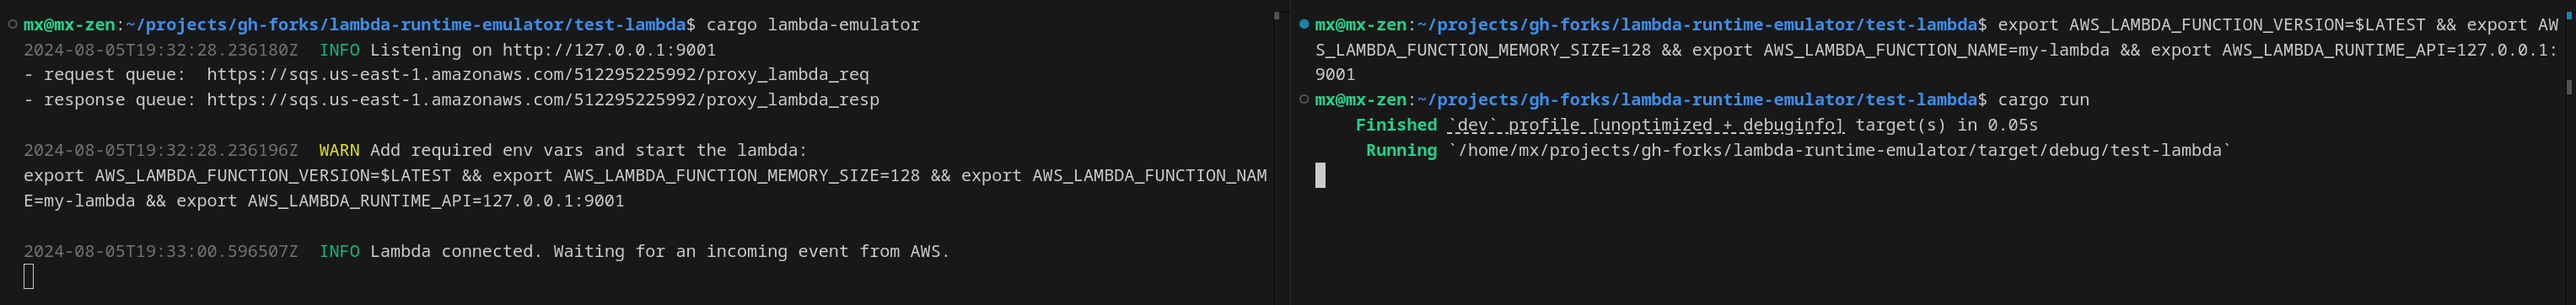
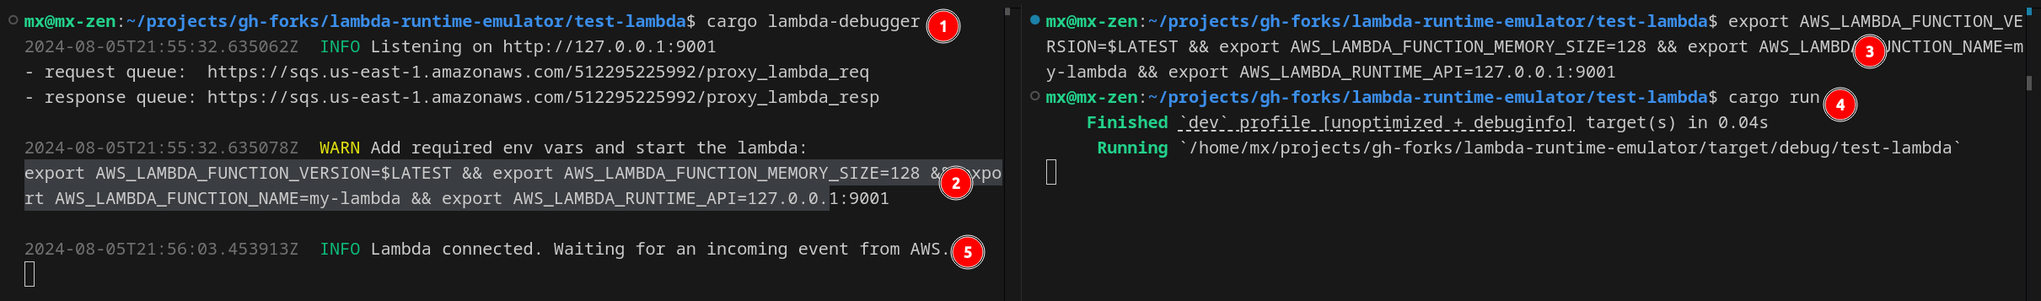
Renamed emulator into debugger

diff --git a/lambda-debugger/src/config.rs b/lambda-debugger/src/config.rs
@@ -156,9 +156,9 @@ fn get_local_payload() -> Option<LocalConfig> {
                     .nth(1)
                     .map_or_else(|| "###".to_string(), |v| format!("cargo-{v}")),
             ) {
-                2 // invoked as a cargo command: `/home/mx/.cargo/bin/cargo-lambda-emulator lambda-emulator`
+                2 // invoked as a cargo command: `/home/mx/.cargo/bin/cargo-lambda-debugger lambda-debugger`
             } else {
-                1 // invoked as a standalone binary: `/home/mx/projects/gh-forks/lambda-runtime-emulator/target/debug/cargo-lambda-emulator`
+                1 // invoked as a standalone binary: `/home/mx/projects/gh-forks/lambda-runtime-emulator/target/debug/cargo-lambda-debugger`
             }
         },
     );
@@ -169,15 +169,15 @@ fn get_local_payload() -> Option<LocalConfig> {
 
     // attempt to extract payload from a local file if the file name is provided in the command line arguments
     if let Some(payload_file) = args().nth(param_idx) {
-        // cargo help lambda-emulator is equivalent to `/home/mx/.cargo/bin/cargo-lambda-emulator lambda-emulator --help`
+        // cargo help lambda-debugger is equivalent to `/home/mx/.cargo/bin/cargo-lambda-debugger lambda-debugger --help`
         if &payload_file == "--help" {
             println!("AWS Lambda environment emulator for local and remote debugging.");
-            println!("1. run `cargo lambda-emulator`");
+            println!("1. run `cargo lambda-debugger`");
             println!("2. copy the env vars printed by the emulator");
             println!("3. set the env vars in a separate terminal and start your lambda there with `cargo run`");
             println!();
-            println!("With local payload: cargo lambda-emulator [payload_file], e.g. lambda_payload.json");
-            println!("With payload from AWS: cargo lambda-emulator");
+            println!("With local payload: cargo lambda-debugger [payload_file], e.g. lambda_payload.json");
+            println!("With payload from AWS: cargo lambda-debugger");
             println!();
             println!("See https://github.com/rimutaka/lambda-debugger-runtime-emulator for more info.");
 

diff --git a/README.md b/README.md
@@ -5,7 +5,7 @@ This emulator allows running Lambda functions locally with either a local payloa
 ## Installation and usage
 
 ```bash
-cargo install lambda-emulator
+cargo install lambda-debugger
 ```
 
 ### Debugging with local payload
@@ -13,7 +13,7 @@ cargo install lambda-emulator
 Use this method for simple use cases where a single static payload is sufficient.
 
 1. Save your payload into a file, e.g. save `{"command": "echo"}` into `test-payload.json` file
-2. Start the emulator with the payload file name as its only param, e.g. `cargo lambda-emulator test-payload.json`
+2. Start the emulator with the payload file name as its only param, e.g. `cargo lambda-debugger test-payload.json`
 3. Add env vars printed by the emulator and start your lambda with `cargo run` in a separate terminal
 
 The lambda will connect to the emulator and receive the payload.
@@ -30,7 +30,7 @@ __Remote debugging configuration__
 This project provides the tools necessary to bring the AWS payload to your local machine in real-time, run the lambda and send back the response as if the local lambda was running on AWS.
 
 - _proxy-lambda_ forwards Lambda requests and responses between AWS and your development machine in real time
-- _cargo-lambda-emulator_ provides Lambda APIs to run a lambda function locally and exchange payloads with AWS
+- _lambda-debugger_ provides Lambda APIs to run a lambda function locally and exchange payloads with AWS
 
 ![function debugged locally](./img/lambda-debugger-components.png)
 
@@ -136,7 +136,7 @@ __Pre-requisites:__
 ![list of sqs queues](/img/sqs-queues.png)
 
 __Launching the local lambda:__
-- run `cargo lambda-emulator` in a separate terminal
+- run `cargo lambda-debugger` in a separate terminal
 - add environmental variables from the prompt printed by the emulator
 - start your lambda with `cargo run` in the same terminal where you added the env vars
 
@@ -152,7 +152,7 @@ __Success, failure and replay:__
 - successful responses are sent back to the caller if the response queue is configured (`proxy_lambda_resp`)
 - panics or handler errors are not sent back to AWS
 - the same incoming SQS message is reused until the lambda completes successfully
-- _lambda-emulator_ deletes the request message from `proxy_lambda_req` queue when the local lambda completes successfully
+- _lambda-debugger_ deletes the request message from `proxy_lambda_req` queue when the local lambda completes successfully
 - _proxy-lambda_ deletes the response message from `proxy_lambda_resp` queue after forwarding it to the caller, e.g. to API Gateway
 - _proxy-lambda_ purges `proxy_lambda_resp` queue before sending a new request to `proxy_lambda_resp`
 - you have to purge `proxy_lambda_req` queue manually to delete stale requests
@@ -164,9 +164,9 @@ If the local lambda fails, terminates or panics, you can make changes to its cod
 
 ### Custom SQS queue names
 
-By default, _proxy-lambda_ and the local _lambda-emulator_ attempt to connect to `proxy_lambda_req` and `proxy_lambda_resp` queues in the same region.
+By default, _proxy-lambda_ and the local _lambda-debugger_ attempt to connect to `proxy_lambda_req` and `proxy_lambda_resp` queues in the same region.
 
-Provide these env vars to _proxy-lambda_ and _lambda-emulator_ if your queue names differ from the defaults:
+Provide these env vars to _proxy-lambda_ and _lambda-debugger_ if your queue names differ from the defaults:
 - `PROXY_LAMBDA_REQ_QUEUE_URL` - _request_ queue, e.g. https://sqs.us-east-1.amazonaws.com/512295225992/debug_request
 - `PROXY_LAMBDA_RESP_QUEUE_URL` - _response_ queue, e.g. https://sqs.us-east-1.amazonaws.com/512295225992/debug_response
 
@@ -182,15 +182,15 @@ In that case, you may need to trigger another request for it to complete success
 ### Not waiting for responses from local lambda
 
 It may be inefficient to have _proxy-lambda_ waiting for a response from the local lambda because it takes too long or no response is necessary.
-Both _proxy-lambda_ and _lambda-emulator_ would not expect a response if the response queue is inaccessible.
+Both _proxy-lambda_ and _lambda-debugger_ would not expect a response if the response queue is inaccessible.
 
 Option 1: delete _proxy_lambda_resp_ queue
 
-Option 2: add `PROXY_LAMBDA_RESP_QUEUE_URL` env var with no value to _proxy-lambda_ and _lambda-emulator_
+Option 2: add `PROXY_LAMBDA_RESP_QUEUE_URL` env var with no value to _proxy-lambda_ and _lambda-debugger_
 
 Option 3: make _proxy_lambda_resp_ queue inaccessible by changing its IAM policy.
 E.g. change the resource name from the correct queue name `"Resource": "arn:aws:sqs:us-east-1:512295225992:proxy_lambda_resp"` to a non-existent name like this `"Resource": "arn:aws:sqs:us-east-1:512295225992:proxy_lambda_resp_BLOCKED"`.
-Both _proxy-lambda_ and _lambda-emulator_ treat the access error as a hint to not expect a response.
+Both _proxy-lambda_ and _lambda-debugger_ treat the access error as a hint to not expect a response.
 
 ### Canceling long _proxy-lambda_ wait
 
@@ -201,17 +201,17 @@ The waiting _proxy-lambda_ will forward it to the caller and become available fo
 ### Large payloads and data compression
 
 The size of the SQS payload is [limited to 262,144 bytes by SQS](https://docs.aws.amazon.com/AWSSimpleQueueService/latest/SQSDeveloperGuide/quotas-messages.html) while [Lambda allows up to 6MB](https://docs.aws.amazon.com/lambda/latest/dg/gettingstarted-limits.html).
-_proxy-lambda_ and _lambda-emulator_ compress oversized payloads using [flate2 crate](https://crates.io/crates/flate2) and send them as an encoded Base58 string to get around that limitation.
+_proxy-lambda_ and _lambda-debugger_ compress oversized payloads using [flate2 crate](https://crates.io/crates/flate2) and send them as an encoded Base58 string to get around that limitation.
 
 The data compression can take up to a minute in debug mode. It is significantly faster with release builds.
 
 ### Logging
 
-Both _proxy-lambda_ and _lambda-emulator_ use `RUST_LOG` env var to set the logging level and filters.
+Both _proxy-lambda_ and _lambda-debugger_ use `RUST_LOG` env var to set the logging level and filters.
 If `RUST_LOG` is not present or is empty, both crates log at the _INFO_ level and suppress logging from their dependencies.
 See [https://docs.rs/tracing-subscriber/latest/tracing_subscriber/filter/struct.EnvFilter.html#example-syntax] for more info.
 
 Examples of `RUST_LOG` values:
 - `error` - log errors only from all crates and dependencies
-- `warn,cargo_lambda_emulator=info` - _INFO_ level for the _lambda-emulator_, _WARN_ level for everything else
+- `warn,lambda_debugger=info` - _INFO_ level for the _lambda-debugger_, _WARN_ level for everything else
 - `proxy=debug` - detailed logging in _proxy-lambda_
